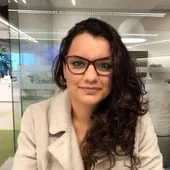
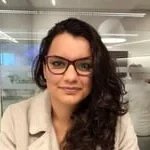
Centralizar secao e fotos dos speakers na LP gestao de crises com IA (#212)
* Recentralizar rosto de Potyra e Bruna nas fotos de speaker

* Centralizar secao de speakers na LP gestao de crises com IA

diff --git a/landing-pages/buzzmonitor/gestao-de-crises-ia-agosto-2026/index.html b/landing-pages/buzzmonitor/gestao-de-crises-ia-agosto-2026/index.html
@@ -441,7 +441,7 @@ j=d.createElement(s),dl=l!='dataLayer'?'&l='+l:'';j.async=true;j.src=
 
   /* ----- SPEAKERS ----- */
   .speakers { background: var(--c-n0); }
-  .speakers-grid { display: grid; grid-template-columns: repeat(3, 1fr); gap: 28px; max-width: 1080px; }
+  .speakers-grid { display: grid; grid-template-columns: repeat(3, 1fr); gap: 28px; max-width: 1080px; margin-inline: auto; }
   @media (max-width: 860px) { .speakers-grid { grid-template-columns: 1fr; max-width: 420px; margin-inline: auto; gap: 20px; } }
   .speaker-card {
     background: #fff; border-radius: var(--r-lg); border: 1px solid var(--c-n300);
